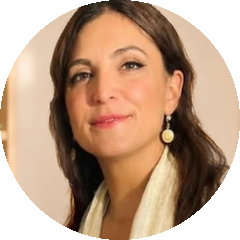
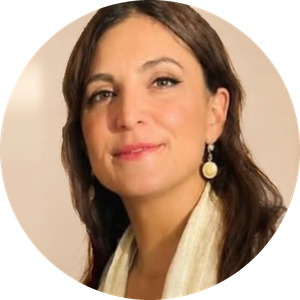
Email (Maria): Athena's thumbnail without the dark shelf edge on its left, a little larger, top-aligned with the greeting so it spans to the foot of the signature

diff --git a/public/email/newsletter-welcome.el.html b/public/email/newsletter-welcome.el.html
@@ -67,13 +67,14 @@
     <tr><td style="padding:38px 56px 0;" class="pad">
       <table role="presentation" cellpadding="0" cellspacing="0">
         <tr>
-          <td valign="middle" style="padding-right:18px;">
-            <img src="{{ASSETS}}/athena.png" width="84" height="84" alt="Δρ. Αθηνά Δέσποινα Ποτάρη" style="display:block;border:0;width:84px;height:84px;">
+          <!-- one row, top-aligned: the photograph runs from the top of the greeting to the foot of the signature -->
+          <td valign="top" style="padding-right:18px;">
+            <img src="{{ASSETS}}/athena.png" width="90" height="90" alt="Δρ. Αθηνά Δέσποινα Ποτάρη" style="display:block;border:0;width:90px;height:90px;">
           </td>
-          <td valign="middle" style="font-family:'EB Garamond',Garamond,Georgia,serif;color:#071260;">
-            <p style="margin:0;font-style:italic;font-size:18px;color:#2c3a8f;">Με χαρά και ενθουσιασμό,</p>
+          <td valign="top" style="font-family:'EB Garamond',Garamond,Georgia,serif;color:#071260;">
+            <p style="margin:0;font-style:italic;font-size:18px;line-height:26px;color:#2c3a8f;">Με χαρά και ενθουσιασμό,</p>
             <!-- her own hand: a GIF that writes the signature once, letters then the star (Maria, 23 November 2026) -->
-            <img src="{{ASSETS}}/signature.gif" width="128" height="55" alt="Αθηνά" style="display:block;border:0;width:128px;height:55px;margin:4px 0 4px -3px;">
+            <img src="{{ASSETS}}/signature.gif" width="128" height="55" alt="Αθηνά" style="display:block;border:0;width:128px;height:55px;margin:9px 0 6px -3px;">
             <p style="margin:0;font-size:16px;line-height:1.3;color:#0b1c8c;">Δρ. Αθηνά Δέσποινα Ποτάρη</p>
           </td>
         </tr>

diff --git a/public/email/welcome-preview.html b/public/email/welcome-preview.html
@@ -67,13 +67,14 @@
     <tr><td style="padding:38px 56px 0;" class="pad">
       <table role="presentation" cellpadding="0" cellspacing="0">
         <tr>
-          <td valign="middle" style="padding-right:18px;">
-            <img src="./athena.png" width="84" height="84" alt="Δρ. Αθηνά Δέσποινα Ποτάρη" style="display:block;border:0;width:84px;height:84px;">
+          <!-- one row, top-aligned: the photograph runs from the top of the greeting to the foot of the signature -->
+          <td valign="top" style="padding-right:18px;">
+            <img src="./athena.png" width="90" height="90" alt="Δρ. Αθηνά Δέσποινα Ποτάρη" style="display:block;border:0;width:90px;height:90px;">
           </td>
-          <td valign="middle" style="font-family:'EB Garamond',Garamond,Georgia,serif;color:#071260;">
-            <p style="margin:0;font-style:italic;font-size:18px;color:#2c3a8f;">Με χαρά και ενθουσιασμό,</p>
+          <td valign="top" style="font-family:'EB Garamond',Garamond,Georgia,serif;color:#071260;">
+            <p style="margin:0;font-style:italic;font-size:18px;line-height:26px;color:#2c3a8f;">Με χαρά και ενθουσιασμό,</p>
             <!-- her own hand: a GIF that writes the signature once, letters then the star (Maria, 23 November 2026) -->
-            <img src="./signature.gif" width="128" height="55" alt="Αθηνά" style="display:block;border:0;width:128px;height:55px;margin:4px 0 4px -3px;">
+            <img src="./signature.gif" width="128" height="55" alt="Αθηνά" style="display:block;border:0;width:128px;height:55px;margin:9px 0 6px -3px;">
             <p style="margin:0;font-size:16px;line-height:1.3;color:#0b1c8c;">Δρ. Αθηνά Δέσποινα Ποτάρη</p>
           </td>
         </tr>

diff --git a/public/email/newsletter-welcome.en.html b/public/email/newsletter-welcome.en.html
@@ -68,13 +68,14 @@
     <tr><td style="padding:38px 56px 0;" class="pad">
       <table role="presentation" cellpadding="0" cellspacing="0">
         <tr>
-          <td valign="middle" style="padding-right:18px;">
-            <img src="{{ASSETS}}/athena.png" width="84" height="84" alt="Dr. Athena Despoina Potari" style="display:block;border:0;width:84px;height:84px;">
+          <!-- one row, top-aligned: the photograph runs from the top of the greeting to the foot of the signature -->
+          <td valign="top" style="padding-right:18px;">
+            <img src="{{ASSETS}}/athena.png" width="90" height="90" alt="Dr. Athena Despoina Potari" style="display:block;border:0;width:90px;height:90px;">
           </td>
-          <td valign="middle" style="font-family:'EB Garamond',Garamond,Georgia,serif;color:#071260;">
-            <p style="margin:0;font-style:italic;font-size:18px;color:#2c3a8f;">With joy and enthusiasm,</p>
+          <td valign="top" style="font-family:'EB Garamond',Garamond,Georgia,serif;color:#071260;">
+            <p style="margin:0;font-style:italic;font-size:18px;line-height:26px;color:#2c3a8f;">With joy and enthusiasm,</p>
             <!-- her own hand: a GIF that writes the signature once, letters then the star (Maria, 23 November 2026) -->
-            <img src="{{ASSETS}}/signature.gif" width="128" height="55" alt="Athena" style="display:block;border:0;width:128px;height:55px;margin:4px 0 4px -3px;">
+            <img src="{{ASSETS}}/signature.gif" width="128" height="55" alt="Athena" style="display:block;border:0;width:128px;height:55px;margin:9px 0 6px -3px;">
             <p style="margin:0;font-size:16px;line-height:1.3;color:#0b1c8c;">Dr. Athena Despoina Potari</p>
           </td>
         </tr>

diff --git a/public/email/welcome-preview-en.html b/public/email/welcome-preview-en.html
@@ -68,13 +68,14 @@
     <tr><td style="padding:38px 56px 0;" class="pad">
       <table role="presentation" cellpadding="0" cellspacing="0">
         <tr>
-          <td valign="middle" style="padding-right:18px;">
-            <img src="./athena.png" width="84" height="84" alt="Dr. Athena Despoina Potari" style="display:block;border:0;width:84px;height:84px;">
+          <!-- one row, top-aligned: the photograph runs from the top of the greeting to the foot of the signature -->
+          <td valign="top" style="padding-right:18px;">
+            <img src="./athena.png" width="90" height="90" alt="Dr. Athena Despoina Potari" style="display:block;border:0;width:90px;height:90px;">
           </td>
-          <td valign="middle" style="font-family:'EB Garamond',Garamond,Georgia,serif;color:#071260;">
-            <p style="margin:0;font-style:italic;font-size:18px;color:#2c3a8f;">With joy and enthusiasm,</p>
+          <td valign="top" style="font-family:'EB Garamond',Garamond,Georgia,serif;color:#071260;">
+            <p style="margin:0;font-style:italic;font-size:18px;line-height:26px;color:#2c3a8f;">With joy and enthusiasm,</p>
             <!-- her own hand: a GIF that writes the signature once, letters then the star (Maria, 23 November 2026) -->
-            <img src="./signature.gif" width="128" height="55" alt="Athena" style="display:block;border:0;width:128px;height:55px;margin:4px 0 4px -3px;">
+            <img src="./signature.gif" width="128" height="55" alt="Athena" style="display:block;border:0;width:128px;height:55px;margin:9px 0 6px -3px;">
             <p style="margin:0;font-size:16px;line-height:1.3;color:#0b1c8c;">Dr. Athena Despoina Potari</p>
           </td>
         </tr>
